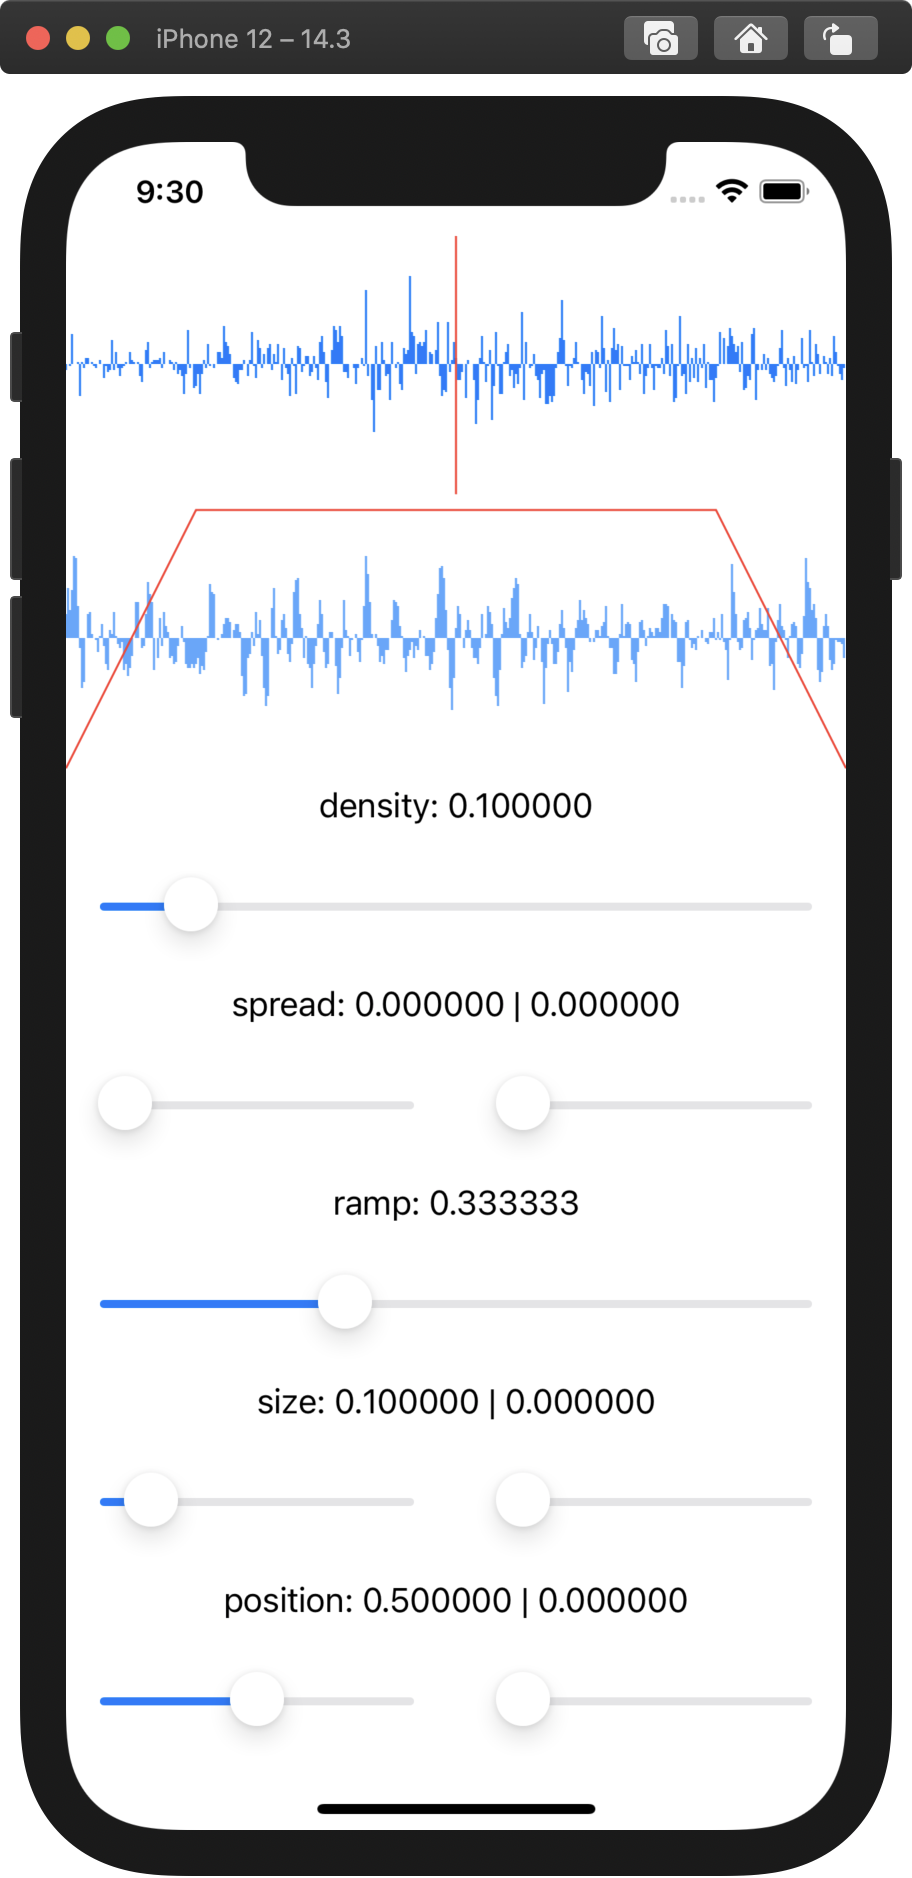
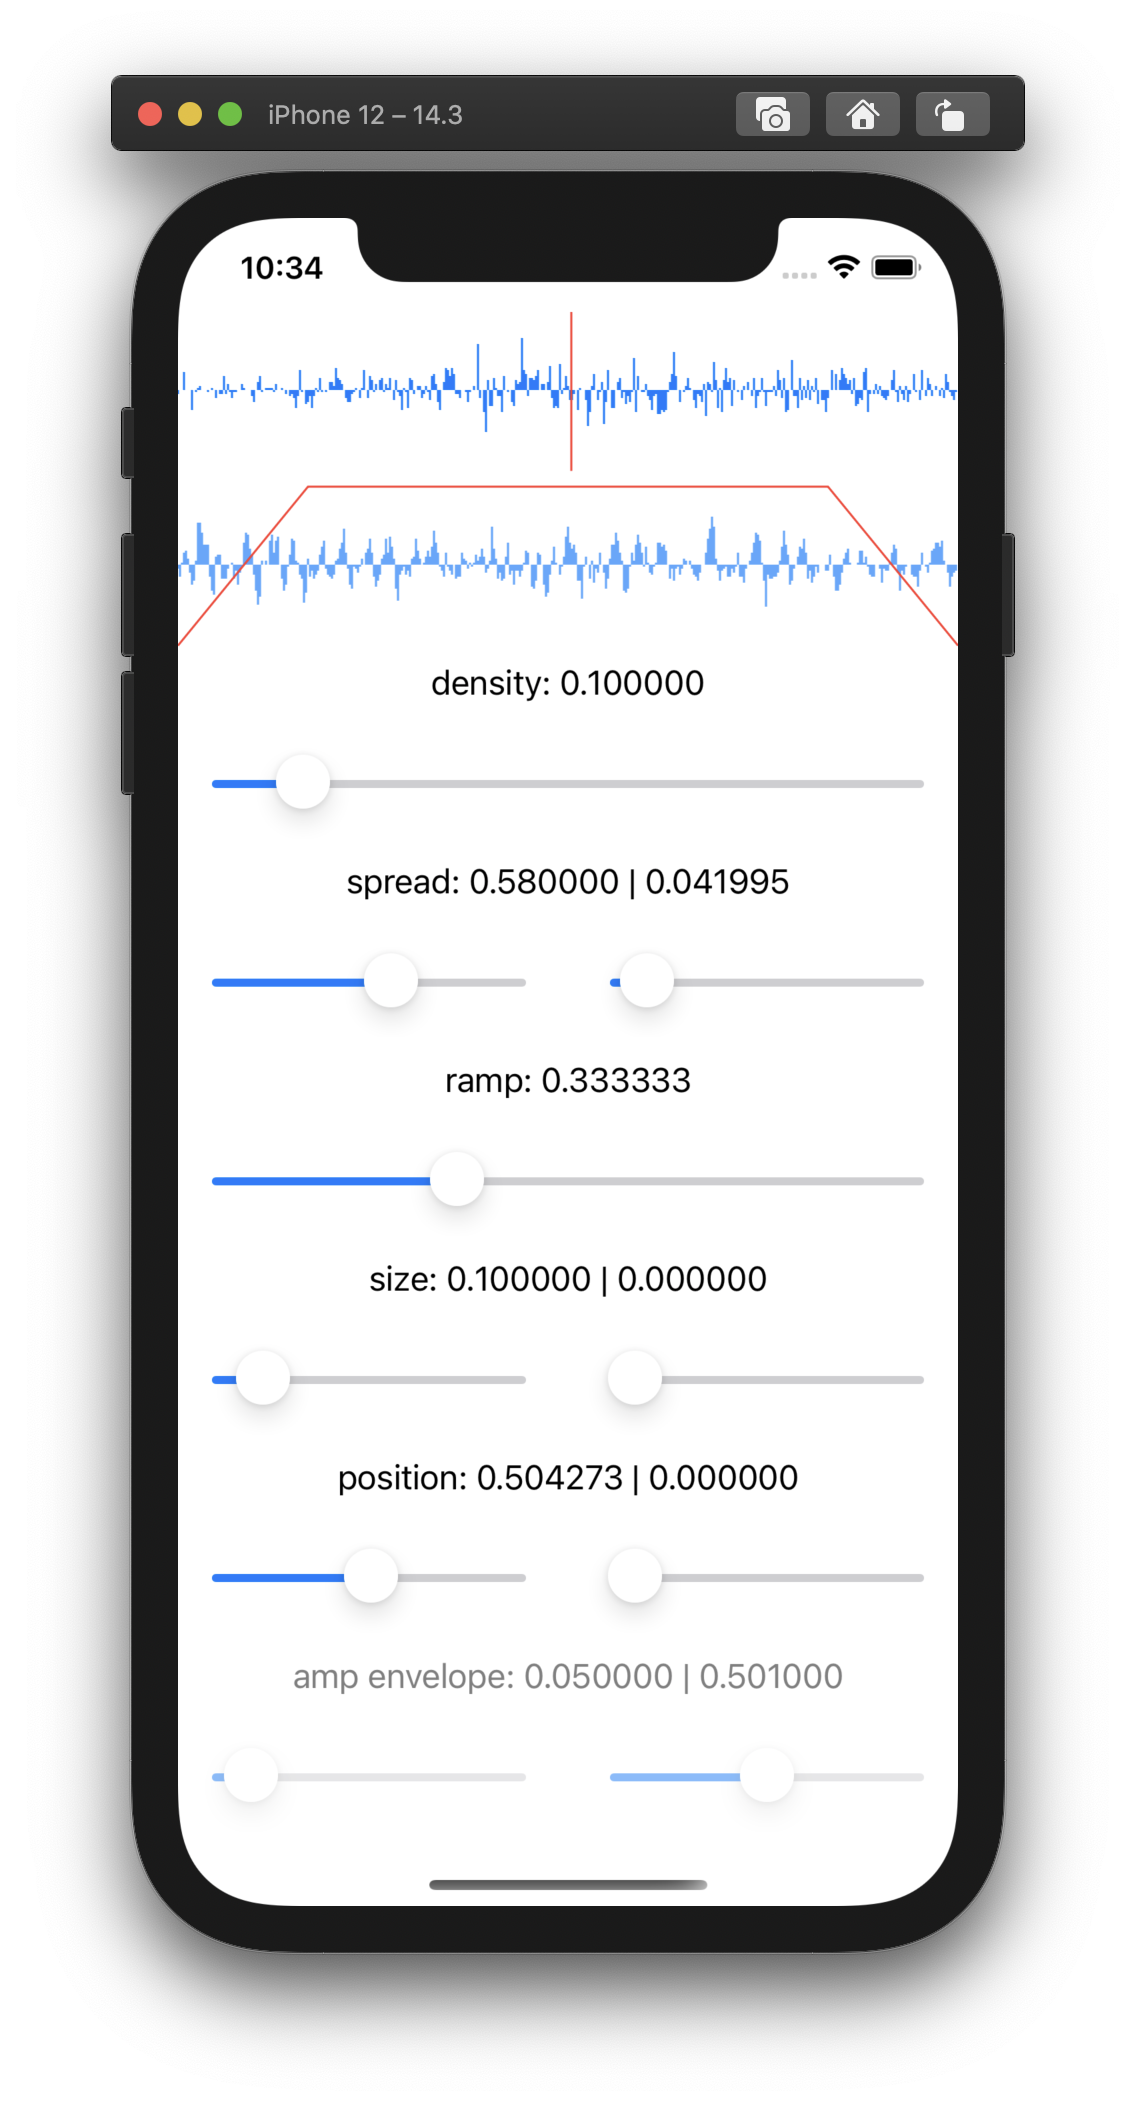
add amp envelope modulation (#2)
* apparently no-op plist tweaks

* adds envelope modulator

* try all doubles rather than ints

* organize project folders

* add mod hold

* add envelope to grain source

* add amp control

* wave view drag sets position

* fix env release calculation

* touch position amp working

* fix touching state

* remove prints

* clean up closure

* dragging sliders sets envelope hold

* move position control into own view

* lower opacity

* beware of negative input

* add jitter control and visualization

* add amp envelope control

* make amp naming consistent

* fix zero decay level

* update screen grab

diff --git a/GrainSwift/Views/ContentView.swift b/GrainSwift/Views/ContentView.swift
@@ -9,6 +9,7 @@ import SwiftUI
 
 struct ContentView: View {
     @EnvironmentObject var audio: Audio
+    @State var isTouchingPosition = false
     
     var body: some View {
         VStack {
@@ -18,7 +19,10 @@ struct ContentView: View {
             }
             
             if let buffer = audio.source?.audioBuffer {
-                WaveView(buffer: buffer, position: audio.grainControl.position)
+                ZStack {
+                    WaveView(buffer: buffer)
+                    PositionControlView(touching: $isTouchingPosition)
+                }
                 GrainView(
                     position: audio.grainControl.position,
                     size: audio.grainControl.size,
@@ -32,7 +36,14 @@ struct ContentView: View {
             ControlSliderView(name: "ramp", value: $audio.grainControl.ramp)
             
             ControlTwinSliderView(name: "size", valueOne: $audio.grainControl.size, valueTwo: $audio.grainControl.sizeJitter)
-            ControlTwinSliderView(name: "position", valueOne: $audio.grainControl.position, valueTwo: $audio.grainControl.positionJitter)
+            ControlTwinSliderView(name: "position", valueOne: $audio.grainControl.position, valueTwo: $audio.grainControl.positionJitter, onDrag: {
+                if !isTouchingPosition {
+                    audio.grainControl.ampHold = true
+                }
+            } )
+            
+            ControlTwinSliderView(name: "amp envelope", valueOne: $audio.grainControl.ampAttackTime, valueTwo: $audio.grainControl.ampReleaseTime)
+                .opacity(audio.grainControl.ampHold ? 0.5 : 1.0)
         }
     }
 }
@@ -40,12 +51,16 @@ struct ContentView: View {
 struct ControlSliderView: View {
     let name: String
     @Binding var value: Double
+    var onDrag: (() -> Void)?
     
     var body: some View {
         VStack {
             Text("\(name): \(value)")
             
             Slider(value: $value, in: 0...1, step: 0.001)
+                .onChange(of: value) { _ in
+                    onDrag?()
+                }
                 .padding()
         }
     }
@@ -55,6 +70,7 @@ struct ControlTwinSliderView: View {
     let name: String
     @Binding var valueOne: Double
     @Binding var valueTwo: Double
+    var onDrag: (() -> Void)?
     
     var body: some View {
         VStack {
@@ -62,8 +78,14 @@ struct ControlTwinSliderView: View {
             
             HStack {
                 Slider(value: $valueOne, in: 0...1, step: 0.001)
+                    .onChange(of: valueOne) { _ in
+                        onDrag?()
+                    }
                     .padding()
                 Slider(value: $valueTwo, in: 0...1, step: 0.001)
+                    .onChange(of: valueTwo) { _ in
+                        onDrag?()
+                    }
                     .padding()
             }
         }

diff --git a/GrainSwift/Views/PositionControlView.swift b/GrainSwift/Views/PositionControlView.swift
@@ -1,0 +1,54 @@
+//
+//  PositionControlView.swift
+//  GrainSwift
+//
+//  Created by lucas kuzma on 1/24/21.
+//
+
+import SwiftUI
+
+struct PositionControlView: View {
+    @EnvironmentObject var audio: Audio
+    @Binding var touching:Bool
+    
+    var body: some View {
+        GeometryReader { geometry in
+            ZStack {
+                Path { path in
+                    let x = geometry.size.width * CGFloat(audio.grainControl.position)
+                    path.move(to: CGPoint(x: x, y: 0))
+                    path.addLine(to: CGPoint(x: x, y:geometry.size.height))
+                }
+                .stroke(Color.red, lineWidth: 1 + CGFloat(audio.grainControl.positionJitter * 8.0))
+                .blur(radius: CGFloat(audio.grainControl.positionJitter * 10.0))
+
+                Rectangle()
+                    .gesture(
+                        DragGesture(minimumDistance: 0, coordinateSpace: .local)
+                            .onChanged { value in
+                                if audio.grainControl.ampHold {
+                                    audio.grainControl.ampHold = false
+                                }
+                                if !touching {
+                                    touching = true
+                                    audio.grainControl.ampReset()
+                                }
+                                audio.grainControl.position = Double(value.location.x / geometry.size.width)
+                                audio.grainControl.positionJitter = 1.0 - Double(value.location.y / geometry.size.height)
+                            }
+                            .onEnded { _ in
+                                touching = false
+                                audio.grainControl.ampRelease()
+                            }
+                    )
+                    .foregroundColor(Color(white: 1.0, opacity: 0.0001)) // clear view ignores touches
+            }
+        }
+    }
+}
+
+struct PositionControlView_Previews: PreviewProvider {
+    static var previews: some View {
+        PositionControlView(touching: .constant(false))
+    }
+}

diff --git a/GrainSwift/Audio/GrainControl.swift b/GrainSwift/Audio/GrainControl.swift
@@ -11,6 +11,46 @@ final class GrainControl : ObservableObject {
     let maxSize = 44100.0
     let maxJitter:UInt32 = 11025
     
+    let maxAttackTime = 44100.0 * 2
+    let maxReleaseTime = 44100.0 * 2
+    
+    var ampAttackTime: Double {
+        get {
+            return Grain.amp.attackTime / maxAttackTime
+        }
+        set {
+            Grain.amp.attackTime = newValue * maxAttackTime
+            objectWillChange.send()
+        }
+    }
+    
+    var ampReleaseTime: Double {
+        get {
+            return Grain.amp.releaseTime / maxReleaseTime
+        }
+        set {
+            Grain.amp.releaseTime = newValue * maxReleaseTime
+            objectWillChange.send()
+        }
+    }
+    
+    var ampHold: Bool {
+        get {
+            return Grain.amp.hold
+        }
+        set {
+            Grain.amp.hold = newValue
+        }
+    }
+    
+    func ampReset() {
+        Grain.amp.reset()
+    }
+    
+    func ampRelease() {
+        Grain.amp.release()
+    }
+
     var density: Double {
         get {
             return Grain.density
@@ -60,7 +100,8 @@ final class GrainControl : ObservableObject {
             return Double(Grain.indexJitter) / Double(maxJitter)
         }
         set {
-            Grain.indexJitter = clamp(UInt32(newValue * Double(maxJitter)), minValue: 0, maxValue: maxJitter)
+            let newValueClamped = clamp(newValue, minValue: 0, maxValue: 1)
+            Grain.indexJitter = UInt32(newValueClamped * Double(maxJitter))
             objectWillChange.send()
         }
     }

diff --git a/GrainSwift/Views/WaveView.swift b/GrainSwift/Views/WaveView.swift
@@ -12,17 +12,15 @@ struct WaveView: View {
     var buffer: AVAudioPCMBuffer
     var start: UInt32
     var end: UInt32
-    var position: Double
     
-    init(buffer: AVAudioPCMBuffer, start: UInt32, end: UInt32, position: Double = -1.0) {
+    init(buffer: AVAudioPCMBuffer, start: UInt32, end: UInt32) {
         self.start = start
         self.end = end
         self.buffer = buffer
-        self.position = position
     }
     
-    init(buffer: AVAudioPCMBuffer, position: Double) {
-        self.init(buffer: buffer, start: 0, end: buffer.frameLength, position: position)
+    init(buffer: AVAudioPCMBuffer) {
+        self.init(buffer: buffer, start: 0, end: buffer.frameLength)
     }
     
     var body: some View {
@@ -49,12 +47,6 @@ struct WaveView: View {
                             )
                         }
                     }.stroke(Color.blue, lineWidth: 1)
-                    
-                    Path { path in
-                        let x = geometry.size.width * CGFloat(position)
-                        path.move(to: CGPoint(x: x, y: 0))
-                        path.addLine(to: CGPoint(x: x, y:geometry.size.height))
-                    }.stroke(Color.red, lineWidth: 1)
                 }
             }
         }
@@ -63,6 +55,6 @@ struct WaveView: View {
 
 struct WaveView_Previews: PreviewProvider {
     static var previews: some View {
-        return WaveView(buffer: AVAudioPCMBuffer(), position: 0.5)
+        return WaveView(buffer: AVAudioPCMBuffer())
     }
 }

diff --git a/GrainSwift/Audio/Modulators.swift b/GrainSwift/Audio/Modulators.swift
@@ -1,0 +1,69 @@
+//
+//  Modulators.swift
+//  GrainSwift
+//
+//  Created by lucas kuzma on 1/20/21.
+//
+
+import Foundation
+
+protocol Modulator {
+    var level: Double { get }
+    mutating func reset()
+    mutating func step()
+    var hold: Bool { get set }
+}
+
+protocol Envelope: Modulator {
+    mutating func release()
+}
+
+enum EnvelopeStage {
+    case attack
+    case sustain
+    case decay
+    case release
+}
+
+struct ASREnvelope: Envelope {
+    var hold: Bool = false {
+        willSet {
+            level = newValue ? 1.0 : 0.0
+        }
+    }
+
+    public var attackTime = 0.0
+    public var releaseTime = 0.0
+    
+    var offset = 0.0
+    var level = 0.0
+    
+    var stage = EnvelopeStage.decay
+    
+    mutating func reset() {
+        offset = 0
+        stage = .attack
+    }
+    
+    mutating func release() {
+        offset = 0
+        stage = .release
+    }
+    
+    mutating func step() {
+        guard !hold else { return }
+        
+        if stage == .attack {
+            level = attackTime > 0 ? min(offset / attackTime, 1) : 1
+            
+            if offset >= attackTime {
+                stage = .sustain
+            }
+        } else if stage == .release && level > 0.0 {
+            level = releaseTime > 0 ? min((releaseTime - offset) / releaseTime, 1) : 0
+        }
+        
+        offset += 1
+    }
+}
+

diff --git a/GrainSwift/Audio/GrainSource.swift b/GrainSwift/Audio/GrainSource.swift
@@ -30,6 +30,8 @@ struct Grain {
     static var grainCount = 0   // number of grains playing
     static var density = 0.1    // fraction of total count that should be playing
     
+    static var amp = ASREnvelope()
+    
     // per grain state
     var offset:UInt32 = 0   // current grain position relative to position in source buffer
     var length:UInt32 = 0   // length of the grain
@@ -94,9 +96,13 @@ struct GrainSource {
         Grain.bufferLength = buffer.frameLength
         Grain.bufferIndex = buffer.frameLength / 2
         Grain.bufferMaxChannel = buffer.stride - 1
-        Grain.length = 4410 // arbitrary 0.1 seconds
+        Grain.length = 4410
         Grain.delay = 0
         Grain.ramp = Grain.length / 6
+        
+        Grain.amp.attackTime = 4410
+        Grain.amp.releaseTime = 44100 / 3
+        Grain.amp.hold = true
     }
     
     func getSourceNode() -> AVAudioSourceNode? {
@@ -136,6 +142,8 @@ struct GrainSource {
             return result
         }
 
-        return sample * amplitude
+        Grain.amp.step()
+
+        return sample * (amplitude * Float(Grain.amp.level))
     }
 }

diff --git a/GrainSwift/Audio/Audio.swift b/GrainSwift/Audio/Audio.swift
@@ -21,7 +21,7 @@ class Audio: ObservableObject {
     
     init() {
         // bubble nested Observable changes
-        grainControlCancellable = grainControl.objectWillChange.sink { (_) in
+        grainControlCancellable = grainControl.objectWillChange.sink {
             self.objectWillChange.send()
         }
 
